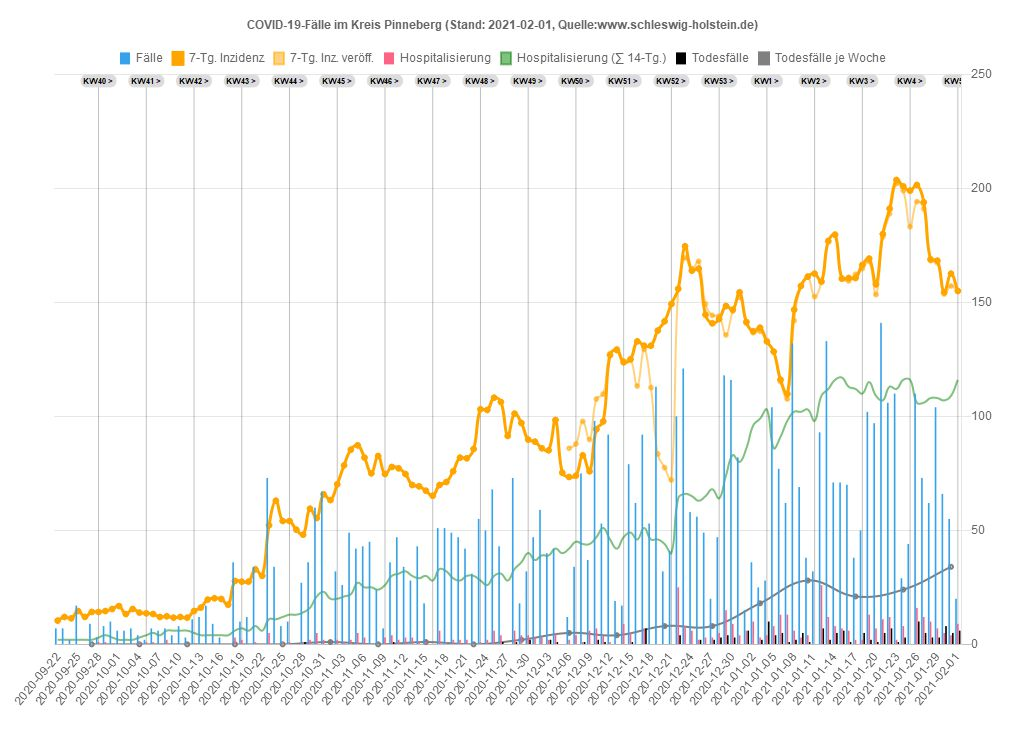
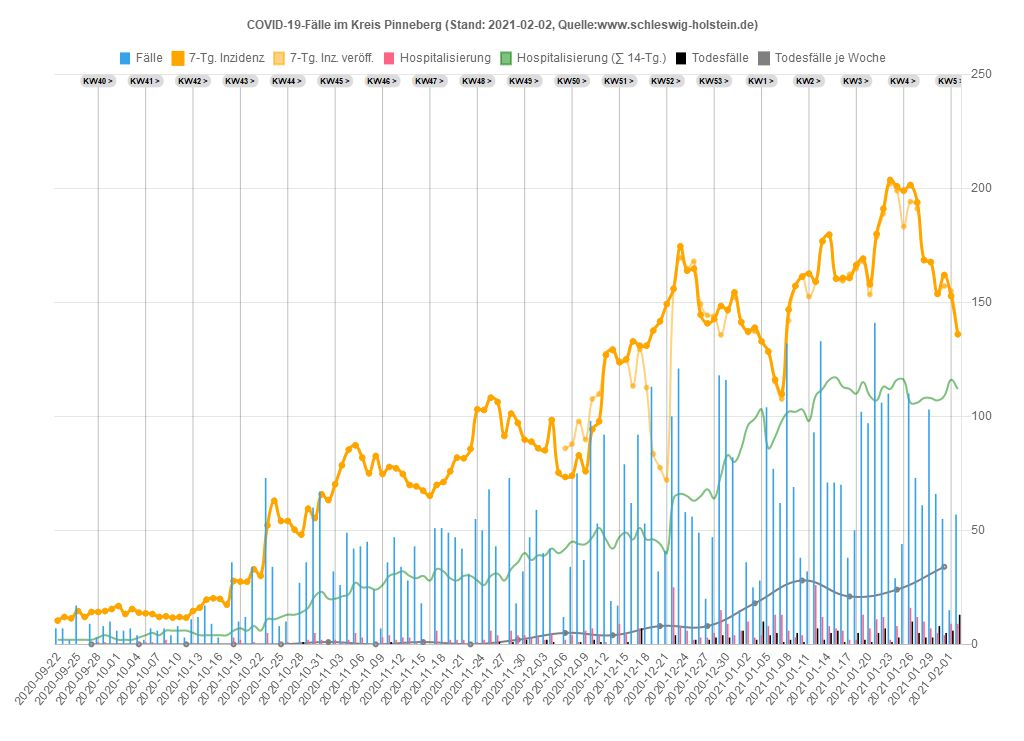
02.02.2021 21:17:01,52

Changed region(s): [[0.0625, 0.2173, 0.9375, 0.9622], [0.125, 0.0931, 0.9375, 0.1242]]

diff --git a/sh/Data_SH.js b/sh/Data_SH.js
@@ -1,20 +1,20 @@
 var chdata={
-labels: ["2020-09-22","2020-09-23","2020-09-24","2020-09-25","2020-09-26","2020-09-27","2020-09-28","2020-09-29","2020-09-30","2020-10-01","2020-10-02","2020-10-03","2020-10-04","2020-10-05","2020-10-06","2020-10-07","2020-10-08","2020-10-09","2020-10-10","2020-10-11","2020-10-12","2020-10-13","2020-10-14","2020-10-15","2020-10-16","2020-10-17","2020-10-18","2020-10-19","2020-10-20","2020-10-21","2020-10-22","2020-10-23","2020-10-24","2020-10-25","2020-10-26","2020-10-27","2020-10-28","2020-10-29","2020-10-30","2020-10-31","2020-11-01","2020-11-02","2020-11-03","2020-11-04","2020-11-05","2020-11-06","2020-11-07","2020-11-08","2020-11-09","2020-11-10","2020-11-11","2020-11-12","2020-11-13","2020-11-14","2020-11-15","2020-11-16","2020-11-17","2020-11-18","2020-11-19","2020-11-20","2020-11-21","2020-11-22","2020-11-23","2020-11-24","2020-11-25","2020-11-26","2020-11-27","2020-11-28","2020-11-29","2020-11-30","2020-12-01","2020-12-02","2020-12-03","2020-12-04","2020-12-05","2020-12-06","2020-12-07","2020-12-08","2020-12-09","2020-12-10","2020-12-11","2020-12-12","2020-12-13","2020-12-14","2020-12-15","2020-12-16","2020-12-17","2020-12-18","2020-12-19","2020-12-20","2020-12-21","2020-12-22","2020-12-23","2020-12-24","2020-12-25","2020-12-26","2020-12-27","2020-12-28","2020-12-29","2020-12-30","2020-12-31","2021-01-01","2021-01-02","2021-01-03","2021-01-04","2021-01-05","2021-01-06","2021-01-07","2021-01-08","2021-01-09","2021-01-10","2021-01-11","2021-01-12","2021-01-13","2021-01-14","2021-01-15","2021-01-16","2021-01-17","2021-01-18","2021-01-19","2021-01-20","2021-01-21","2021-01-22","2021-01-23","2021-01-24","2021-01-25","2021-01-26","2021-01-27","2021-01-28","2021-01-29","2021-01-30","2021-01-31","2021-02-01"],
+labels: ["2020-09-22","2020-09-23","2020-09-24","2020-09-25","2020-09-26","2020-09-27","2020-09-28","2020-09-29","2020-09-30","2020-10-01","2020-10-02","2020-10-03","2020-10-04","2020-10-05","2020-10-06","2020-10-07","2020-10-08","2020-10-09","2020-10-10","2020-10-11","2020-10-12","2020-10-13","2020-10-14","2020-10-15","2020-10-16","2020-10-17","2020-10-18","2020-10-19","2020-10-20","2020-10-21","2020-10-22","2020-10-23","2020-10-24","2020-10-25","2020-10-26","2020-10-27","2020-10-28","2020-10-29","2020-10-30","2020-10-31","2020-11-01","2020-11-02","2020-11-03","2020-11-04","2020-11-05","2020-11-06","2020-11-07","2020-11-08","2020-11-09","2020-11-10","2020-11-11","2020-11-12","2020-11-13","2020-11-14","2020-11-15","2020-11-16","2020-11-17","2020-11-18","2020-11-19","2020-11-20","2020-11-21","2020-11-22","2020-11-23","2020-11-24","2020-11-25","2020-11-26","2020-11-27","2020-11-28","2020-11-29","2020-11-30","2020-12-01","2020-12-02","2020-12-03","2020-12-04","2020-12-05","2020-12-06","2020-12-07","2020-12-08","2020-12-09","2020-12-10","2020-12-11","2020-12-12","2020-12-13","2020-12-14","2020-12-15","2020-12-16","2020-12-17","2020-12-18","2020-12-19","2020-12-20","2020-12-21","2020-12-22","2020-12-23","2020-12-24","2020-12-25","2020-12-26","2020-12-27","2020-12-28","2020-12-29","2020-12-30","2020-12-31","2021-01-01","2021-01-02","2021-01-03","2021-01-04","2021-01-05","2021-01-06","2021-01-07","2021-01-08","2021-01-09","2021-01-10","2021-01-11","2021-01-12","2021-01-13","2021-01-14","2021-01-15","2021-01-16","2021-01-17","2021-01-18","2021-01-19","2021-01-20","2021-01-21","2021-01-22","2021-01-23","2021-01-24","2021-01-25","2021-01-26","2021-01-27","2021-01-28","2021-01-29","2021-01-30","2021-01-31","2021-02-01","2021-02-02"],
 datasets: [
 {label: 'Fälle',
 type: 'bar',
 backgroundColor: window.chartColors.blue,
-data: [38,42,63,53,15,15,38,48,49,27,50,16,24,39,54,45,79,54,26,25,65,65,65,55,90,26,88,163,111,160,136,236,142,115,164,164,280,215,313,265,161,142,236,262,220,274,233,177,215,252,247,192,296,158,161,100,294,208,264,250,153,121,145,251,256,225,180,219,71,81,244,240,245,318,234,122,179,356,340,443,429,444,144,210,506,522,489,553,440,193,280,589,673,366,177,201,188,268,576,466,357,135,264,203,265,542,537,482,523,408,143,261,399,491,422,417,358,202,239,468,485,501,459,442,157,161,539,464,386,349,264,179,98]},
+data: [38,42,63,53,15,15,38,48,49,27,50,16,24,39,54,45,79,54,26,25,65,65,65,55,90,26,88,163,111,160,136,236,142,115,164,164,280,215,313,265,161,142,236,262,220,274,233,177,215,252,247,192,296,158,161,100,294,208,264,250,153,121,145,251,256,225,180,219,71,81,244,240,245,318,234,122,179,356,340,443,429,444,144,210,506,522,489,553,440,193,280,589,673,366,177,201,188,268,576,466,357,135,264,203,265,542,537,482,523,408,143,261,399,491,422,417,358,202,239,468,485,501,459,442,157,161,539,464,385,348,264,181,127,226]},
 {label: '7-Tg. Inzidenz',
 type: 'line',
 fill: false,
 pointBackgroundColor: 'orange',
 borderColor: 'orange',
-data: [7.2,7.9,8.7,9.4,9.3,9.2,9.1,9.4,9.7,8.4,8.3,8.4,8.7,8.7,8.9,8.8,10.6,10.7,11.1,11.1,12.0,12.4,13.1,12.2,13.5,13.5,15.6,19.0,20.6,23.9,26.7,31.7,35.7,36.6,36.6,38.5,42.6,45.3,48.0,52.2,53.8,53.0,55.5,54.9,55.1,53.7,52.6,53.2,55.7,56.2,55.7,54.8,55.5,52.9,52.4,48.4,49.9,48.5,51.0,49.4,49.2,47.9,49.4,47.9,49.6,48.2,45.8,48.1,46.4,44.2,43.9,43.4,44.1,48.8,49.3,51.1,54.5,58.3,61.8,68.6,72.4,79.7,80.4,81.5,86.6,92.9,94.5,98.8,98.6,100.3,102.7,105.6,110.8,106.6,93.6,85.4,85.2,84.8,84.3,77.2,76.9,75.5,77.6,78.1,78.0,76.9,79.3,83.6,97.0,101.9,99.9,99.7,94.8,93.2,91.2,87.5,85.8,87.8,87.1,89.4,89.2,91.9,93.4,96.3,94.7,92.1,94.5,93.8,89.8,86.0,79.9,80.7,78.5]},
+data: [7.2,7.9,8.7,9.4,9.3,9.2,9.1,9.4,9.7,8.4,8.3,8.4,8.7,8.7,8.9,8.8,10.6,10.7,11.1,11.1,12.0,12.4,13.1,12.2,13.5,13.5,15.6,19.0,20.6,23.9,26.7,31.7,35.7,36.6,36.6,38.5,42.6,45.3,48.0,52.2,53.8,53.0,55.5,54.9,55.1,53.7,52.6,53.2,55.7,56.2,55.7,54.8,55.5,52.9,52.4,48.4,49.9,48.5,51.0,49.4,49.2,47.9,49.4,47.9,49.6,48.2,45.8,48.1,46.4,44.2,43.9,43.4,44.1,48.8,49.3,51.1,54.5,58.3,61.8,68.6,72.4,79.7,80.4,81.5,86.6,92.9,94.5,98.8,98.6,100.3,102.7,105.6,110.8,106.6,93.6,85.4,85.2,84.8,84.3,77.2,76.9,75.5,77.6,78.1,78.0,76.9,79.3,83.6,97.0,101.9,99.9,99.7,94.8,93.2,91.2,87.5,85.8,87.8,87.1,89.4,89.2,91.9,93.4,96.3,94.7,92.1,94.5,93.8,89.8,86.0,79.8,80.7,79.5,68.7]},
 {label: 'Hospitalisierung',
 type: 'bar',
 backgroundColor: window.chartColors.red,
-data: [1,2,7,1,0,0,2,1,3,1,1,0,4,3,1,1,4,2,0,3,5,1,1,2,4,0,9,10,8,9,12,7,5,6,7,7,11,10,11,6,3,9,19,20,15,15,5,7,13,15,21,13,17,8,17,13,23,10,15,9,7,7,13,16,26,19,12,14,15,10,12,8,10,14,3,5,24,13,26,20,14,12,6,26,27,16,20,18,8,13,13,43,35,23,17,21,26,25,46,33,33,20,34,32,51,58,35,46,34,30,22,45,69,51,59,52,32,37,36,51,53,47,34,33,38,51,37,53,37,29,46,58,40]},
+data: [1,2,7,1,0,0,2,1,3,1,1,0,4,3,1,1,4,2,0,3,5,1,1,2,4,0,9,10,8,9,12,7,5,6,7,7,11,10,11,6,3,9,19,20,15,15,5,7,13,15,21,13,17,8,17,13,23,10,15,9,7,7,13,16,26,19,12,14,15,10,12,8,10,14,3,5,24,13,26,20,14,12,6,26,27,16,20,18,8,13,13,43,35,23,17,21,26,25,46,33,33,20,34,32,51,58,35,46,34,30,22,45,69,51,59,52,32,37,36,51,53,47,34,33,38,51,37,53,37,29,46,58,40,36]},
 {label: 'Hosp. (∑ 14-Tg.)',
 type: 'line',
 fill: false,
@@ -22,17 +22,17 @@ hidden: true,
 borderColor: 'rgba(0,255,0,0.5)',
 borderWidth: 1.5,
 pointRadius: 0,
-data: [12,12,20,22,22,22,22,23,23,21,22,21,24,26,26,25,22,23,23,26,29,29,27,28,31,31,36,43,50,58,66,71,76,79,81,87,97,105,112,118,112,111,122,133,136,144,144,145,151,159,169,172,178,180,194,198,202,192,192,186,188,188,188,189,194,200,195,201,199,196,185,183,178,183,179,177,188,185,185,186,188,186,177,193,208,216,226,230,235,243,232,262,271,274,277,286,306,305,324,341,354,356,382,401,439,454,454,477,494,503,499,519,542,560,586,618,616,621,606,599,617,618,618,621,637,643,611,613,591,568,582,603,607]},
+data: [12,12,20,22,22,22,22,23,23,21,22,21,24,26,26,25,22,23,23,26,29,29,27,28,31,31,36,43,50,58,66,71,76,79,81,87,97,105,112,118,112,111,122,133,136,144,144,145,151,159,169,172,178,180,194,198,202,192,192,186,188,188,188,189,194,200,195,201,199,196,185,183,178,183,179,177,188,185,185,186,188,186,177,193,208,216,226,230,235,243,232,262,271,274,277,286,306,305,324,341,354,356,382,401,439,454,454,477,494,503,499,519,542,560,586,618,616,621,606,599,617,618,618,621,637,643,611,613,591,568,582,603,607,592]},
 {label: 'Aktuell im Krankenhaus',
 type: 'line',
 fill: false,
 pointBackgroundColor: 'green',
 borderColor: 'green',
-data: [6,6,6,6,6,6,6,11,11,11,11,14,14,15,15,14,14,14,13,13,18,18,18,21,24,24,24,24,31,31,31,31,51,51,58,58,58,58,58,58,58,94,110,114,119,118,124,120,126,116,113,119,112,116,116,148,145,151,141,141,141,141,155,142,122,113,118,118,118,124,114,110,109,114,114,114,131,122,128,132,133,133,133,177,181,194,201,212,236,250,275,271,267,262,262,262,262,309,318,322,346,346,376,376,390,412,376,379,364,364,364,384,362,373,382,398,426,473,454,457,457,438,447,461,485,499,499,494,505,485,488,506,513]},
+data: [6,6,6,6,6,6,6,11,11,11,11,14,14,15,15,14,14,14,13,13,18,18,18,21,24,24,24,24,31,31,31,31,51,51,58,58,58,58,58,58,58,94,110,114,119,118,124,120,126,116,113,119,112,116,116,148,145,151,141,141,141,141,155,142,122,113,118,118,118,124,114,110,109,114,114,114,131,122,128,132,133,133,133,177,181,194,201,212,236,250,275,271,267,262,262,262,262,309,318,322,346,346,376,376,390,412,376,379,364,364,364,384,362,373,382,398,426,473,454,457,457,438,447,461,485,499,499,494,505,485,488,506,513,501]},
 {label: 'Todesfälle',
 type: 'bar',
 backgroundColor: 'black',
-data: [0,0,0,0,0,0,0,1,0,0,0,0,0,0,0,0,0,0,0,0,0,1,0,0,0,0,0,0,0,0,1,0,0,3,0,0,3,4,1,0,2,6,7,2,2,6,0,1,4,3,5,0,5,1,3,5,0,2,2,2,1,0,3,4,1,3,3,1,4,2,3,1,4,1,0,1,4,2,5,7,7,1,2,2,6,7,11,3,2,0,9,15,4,3,4,7,10,18,17,14,2,9,7,3,29,22,17,6,14,11,9,15,25,15,15,24,3,1,23,16,16,18,16,3,11,14,25,21,19,19,24,11,29]},
+data: [0,0,0,0,0,0,0,1,0,0,0,0,0,0,0,0,0,0,0,0,0,1,0,0,0,0,0,0,0,0,1,0,0,3,0,0,3,4,1,0,2,6,7,2,2,6,0,1,4,3,5,0,5,1,3,5,0,2,2,2,1,0,3,4,1,3,3,1,4,2,3,1,4,1,0,1,4,2,5,7,7,1,2,2,6,7,11,3,2,0,9,15,4,3,4,7,10,18,17,14,2,9,7,3,29,22,17,6,14,11,9,15,25,15,15,24,3,1,23,16,16,18,16,3,11,14,25,21,19,19,24,11,29,27]},
 {label: 'Todesfälle je Woche',
 type: 'line',
 fill: false,
@@ -41,6 +41,6 @@ borderColor: 'rgba(128,128,128,1)',
 borderWidth: 2,
 pointRadius: 2,
 yAxisID: 'first-y-axis',
-data: [,,,,,0,,,,,,,1,,,,,,,0,,,,,,,1,,,,,,,4,,,,,,,10,,,,,,,24,,,,,,,21,,,,,,,12,,,,,,,19,,,,,,,12,,,,,,,28,,,,,,,31,,,,,,,52,,,,,,,70,,,,,,,108,,,,,,,98,,,,,,,103,,,,,,,133,]},
+data: [,,,,,0,,,,,,,1,,,,,,,0,,,,,,,1,,,,,,,4,,,,,,,10,,,,,,,24,,,,,,,21,,,,,,,12,,,,,,,19,,,,,,,12,,,,,,,28,,,,,,,31,,,,,,,52,,,,,,,70,,,,,,,108,,,,,,,98,,,,,,,103,,,,,,,133,,]},
 ]};
 

diff --git a/sh/Kreis_PI.js b/sh/Kreis_PI.js
@@ -1,18 +1,18 @@
 var chdata={
-labels: ["2020-09-22","2020-09-23","2020-09-24","2020-09-25","2020-09-26","2020-09-27","2020-09-28","2020-09-29","2020-09-30","2020-10-01","2020-10-02","2020-10-03","2020-10-04","2020-10-05","2020-10-06","2020-10-07","2020-10-08","2020-10-09","2020-10-10","2020-10-11","2020-10-12","2020-10-13","2020-10-14","2020-10-15","2020-10-16","2020-10-17","2020-10-18","2020-10-19","2020-10-20","2020-10-21","2020-10-22","2020-10-23","2020-10-24","2020-10-25","2020-10-26","2020-10-27","2020-10-28","2020-10-29","2020-10-30","2020-10-31","2020-11-01","2020-11-02","2020-11-03","2020-11-04","2020-11-05","2020-11-06","2020-11-07","2020-11-08","2020-11-09","2020-11-10","2020-11-11","2020-11-12","2020-11-13","2020-11-14","2020-11-15","2020-11-16","2020-11-17","2020-11-18","2020-11-19","2020-11-20","2020-11-21","2020-11-22","2020-11-23","2020-11-24","2020-11-25","2020-11-26","2020-11-27","2020-11-28","2020-11-29","2020-11-30","2020-12-01","2020-12-02","2020-12-03","2020-12-04","2020-12-05","2020-12-06","2020-12-07","2020-12-08","2020-12-09","2020-12-10","2020-12-11","2020-12-12","2020-12-13","2020-12-14","2020-12-15","2020-12-16","2020-12-17","2020-12-18","2020-12-19","2020-12-20","2020-12-21","2020-12-22","2020-12-23","2020-12-24","2020-12-25","2020-12-26","2020-12-27","2020-12-28","2020-12-29","2020-12-30","2020-12-31","2021-01-01","2021-01-02","2021-01-03","2021-01-04","2021-01-05","2021-01-06","2021-01-07","2021-01-08","2021-01-09","2021-01-10","2021-01-11","2021-01-12","2021-01-13","2021-01-14","2021-01-15","2021-01-16","2021-01-17","2021-01-18","2021-01-19","2021-01-20","2021-01-21","2021-01-22","2021-01-23","2021-01-24","2021-01-25","2021-01-26","2021-01-27","2021-01-28","2021-01-29","2021-01-30","2021-01-31","2021-02-01"],
+labels: ["2020-09-22","2020-09-23","2020-09-24","2020-09-25","2020-09-26","2020-09-27","2020-09-28","2020-09-29","2020-09-30","2020-10-01","2020-10-02","2020-10-03","2020-10-04","2020-10-05","2020-10-06","2020-10-07","2020-10-08","2020-10-09","2020-10-10","2020-10-11","2020-10-12","2020-10-13","2020-10-14","2020-10-15","2020-10-16","2020-10-17","2020-10-18","2020-10-19","2020-10-20","2020-10-21","2020-10-22","2020-10-23","2020-10-24","2020-10-25","2020-10-26","2020-10-27","2020-10-28","2020-10-29","2020-10-30","2020-10-31","2020-11-01","2020-11-02","2020-11-03","2020-11-04","2020-11-05","2020-11-06","2020-11-07","2020-11-08","2020-11-09","2020-11-10","2020-11-11","2020-11-12","2020-11-13","2020-11-14","2020-11-15","2020-11-16","2020-11-17","2020-11-18","2020-11-19","2020-11-20","2020-11-21","2020-11-22","2020-11-23","2020-11-24","2020-11-25","2020-11-26","2020-11-27","2020-11-28","2020-11-29","2020-11-30","2020-12-01","2020-12-02","2020-12-03","2020-12-04","2020-12-05","2020-12-06","2020-12-07","2020-12-08","2020-12-09","2020-12-10","2020-12-11","2020-12-12","2020-12-13","2020-12-14","2020-12-15","2020-12-16","2020-12-17","2020-12-18","2020-12-19","2020-12-20","2020-12-21","2020-12-22","2020-12-23","2020-12-24","2020-12-25","2020-12-26","2020-12-27","2020-12-28","2020-12-29","2020-12-30","2020-12-31","2021-01-01","2021-01-02","2021-01-03","2021-01-04","2021-01-05","2021-01-06","2021-01-07","2021-01-08","2021-01-09","2021-01-10","2021-01-11","2021-01-12","2021-01-13","2021-01-14","2021-01-15","2021-01-16","2021-01-17","2021-01-18","2021-01-19","2021-01-20","2021-01-21","2021-01-22","2021-01-23","2021-01-24","2021-01-25","2021-01-26","2021-01-27","2021-01-28","2021-01-29","2021-01-30","2021-01-31","2021-02-01","2021-02-02"],
 datasets: [
 {label: 'Fälle',
 type: 'bar',
 backgroundColor: window.chartColors.blue,
 yAxisID: 'first-y-axis',
-data: [7,7,2,17,0,9,3,8,10,6,6,7,4,2,7,6,7,4,8,3,11,12,17,9,3,0,36,10,12,34,0,73,34,8,10,0,27,36,60,67,0,32,26,49,42,43,45,24,7,36,47,34,28,43,18,0,51,51,49,47,42,31,55,50,68,43,0,73,18,32,47,59,40,42,0,12,34,75,37,98,53,92,19,17,79,62,92,53,113,32,41,100,121,58,56,49,20,47,118,116,82,15,36,25,28,104,77,62,132,69,38,32,93,133,71,71,70,38,50,102,97,141,106,110,29,44,110,73,62,104,66,55,20]},
+data: [7,7,2,17,0,9,3,8,10,6,6,7,4,2,7,6,7,4,8,3,11,12,17,9,3,0,36,10,12,34,0,73,34,8,10,0,27,36,60,67,0,32,26,49,42,43,45,24,7,36,47,34,28,43,18,0,51,51,49,47,42,31,55,50,68,43,0,73,18,32,47,59,40,42,0,12,34,75,37,98,53,92,19,17,79,62,92,53,113,32,41,100,121,58,56,49,20,47,118,116,82,15,36,25,28,104,77,62,132,69,38,32,93,133,71,71,70,38,50,102,97,141,106,110,29,44,110,73,61,103,66,55,15,57]},
 {label: '7-Tg. Inzidenz',
 type: 'line',
 fill: false,
 pointBackgroundColor: 'orange',
 borderColor: 'orange',
 yAxisID: 'first-y-axis',
-data: [10.4,12.0,11.4,14.6,12.0213981,14.2,14.2,14.6,15.5,16.8,13.3,15.5,13.9,13.6,13.3,12.0,12.3,11.7,12.0,11.7,14.6,16.1,19.6,20.2,19.9,17.399392,27.8,27.5,27.5,32.9,30.0534952,52.2,63.0,54.1,54.1,50.3000604,48.1,59.5,55.4,65.8,63.2705163,70.2,78.5,85.4,87.3,81.9,75.0,82.6,74.7,77.8,77.2,74.7,69.9,69.3,67.4,65.1686317,69.9,71.2,75.9,81.9,81.6,85.7,103.1,102.8,108.2,106.3,91.425896,101.2,97.1,89.8,88.9,86.0,85.1,98.4,75.2919143,73.4,74.0,82.9,75.9,94.3,97.8,126.9,129.1,123.7,125.0,132.9,131.0,131.0,137.6,141.7,149.3,156.0,174.6,163.9,164.8,144.6,140.8,142.7,148.4,146.8,154.4,141.4,137.3,138.9,132.9,128.4,116.1,109.8,146.8,157.2,161.3,162.6,159.1,176.8,179.7,160.4,160.7,160.7,166.4,169.2,157.9,180.0,191.1,203.7,200.9,199.0,201.5,193.9,168.9,168.3,154.4,162.6,155.0]},
+data: [10.4,12.0,11.4,14.6,12.0213981,14.2,14.2,14.6,15.5,16.8,13.3,15.5,13.9,13.6,13.3,12.0,12.3,11.7,12.0,11.7,14.6,16.1,19.6,20.2,19.9,17.399392,27.8,27.5,27.5,32.9,30.0534952,52.2,63.0,54.1,54.1,50.3000604,48.1,59.5,55.4,65.8,63.2705163,70.2,78.5,85.4,87.3,81.9,75.0,82.6,74.7,77.8,77.2,74.7,69.9,69.3,67.4,65.1686317,69.9,71.2,75.9,81.9,81.6,85.7,103.1,102.8,108.2,106.3,91.425896,101.2,97.1,89.8,88.9,86.0,85.1,98.4,75.2919143,73.4,74.0,82.9,75.9,94.3,97.8,126.9,129.1,123.7,125.0,132.9,131.0,131.0,137.6,141.7,149.3,156.0,174.6,163.9,164.8,144.6,140.8,142.7,148.4,146.8,154.4,141.4,137.3,138.9,132.9,128.4,116.1,109.8,146.8,157.2,161.3,162.6,159.1,176.8,179.7,160.4,160.7,160.7,166.4,169.2,157.9,180.0,191.1,203.7,200.9,199.0,201.5,193.9,168.6,167.7,153.7,162.0,152.8,136.0]},
 {label: '7-Tg. Inz. veröff.',
 type: 'line',
 fill: false,
@@ -21,12 +21,12 @@ borderColor: 'rgba(255,165,0,0.5)',
 borderWidth: 2,
 pointRadius: 2,
 yAxisID: 'first-y-axis',
-data: [,,,,,,,,,,,,,,,,,,,,,,,,,,,,,,,,,,,,,,,,,,,,,,,,,,,,,,,,,,,,,,,,,,,,,,,,,,,86.0,87.9,97.8,89.8,107.6,109.8,127.5,129.7,124.3,125.0,113.3,129.4,112.6,83.5,77.5,72.1,155.6,169.6,164.8,168.0,149.3,144.3,143.9,135.7,146.2,152.2,140.8,136.7,137.3,132.9,128.4,115.2,107.6,142.0,157.2,161.3,152.5,159.1,177.2,179.4,160.7,159.4,162.3,164.8,168.0,153.4,178.7,188.9,202.1,199.0,183.2,194.2,191.1,168.3,167.4,153.7,157.2,155.0]},
+data: [,,,,,,,,,,,,,,,,,,,,,,,,,,,,,,,,,,,,,,,,,,,,,,,,,,,,,,,,,,,,,,,,,,,,,,,,,,,86.0,87.9,97.8,89.8,107.6,109.8,127.5,129.7,124.3,125.0,113.3,129.4,112.6,83.5,77.5,72.1,155.6,169.6,164.8,168.0,149.3,144.3,143.9,135.7,146.2,152.2,140.8,136.7,137.3,132.9,128.4,115.2,107.6,142.0,157.2,161.3,152.5,159.1,177.2,179.4,160.7,159.4,162.3,164.8,168.0,153.4,178.7,188.9,202.1,199.0,183.2,194.2,191.1,168.3,167.4,153.7,157.2,155.0,136.0]},
 {label: 'Hospitalisierung',
 type: 'bar',
 backgroundColor: window.chartColors.red,
 yAxisID: 'first-y-axis',
-data: [0,0,0,0,0,0,1,1,0,0,0,0,1,1,1,-1,2,0,0,0,0,0,0,0,0,0,3,2,0,1,0,5,0,1,1,0,1,2,5,2,0,2,1,2,5,3,0,0,3,4,2,3,3,1,1,0,6,1,2,2,2,0,1,2,6,4,0,6,4,4,3,3,2,5,0,2,4,1,6,7,4,1,0,9,5,0,7,0,0,0,0,25,8,6,2,3,3,5,15,9,4,6,10,3,4,8,13,13,6,3,4,0,26,12,8,7,6,2,2,13,7,11,12,2,8,0,16,12,10,7,5,4,9]},
+data: [0,0,0,0,0,0,1,1,0,0,0,0,1,1,1,-1,2,0,0,0,0,0,0,0,0,0,3,2,0,1,0,5,0,1,1,0,1,2,5,2,0,2,1,2,5,3,0,0,3,4,2,3,3,1,1,0,6,1,2,2,2,0,1,2,6,4,0,6,4,4,3,3,2,5,0,2,4,1,6,7,4,1,0,9,5,0,7,0,0,0,0,25,8,6,2,3,3,5,15,9,4,6,10,3,4,8,13,13,6,3,4,0,26,12,8,7,6,2,2,13,7,11,12,2,8,0,16,12,10,7,5,4,9,9]},
 {label: 'Hospitalisierung (∑ 14-Tg.)',
 type: 'line',
 pointRadius: 0,
@@ -34,12 +34,12 @@ fill: false,
 borderColor: 'rgba(0,128,0,0.5)',
 borderWidth: 2,
 yAxisID: 'first-y-axis',
-data: [2,2,2,2,2,2,3,4,3,2,2,2,3,4,5,4,6,6,6,6,5,4,4,4,4,4,6,7,6,8,6,11,11,12,13,13,14,16,21,23,20,20,21,22,27,25,25,24,26,30,31,32,30,29,30,28,33,32,29,28,30,30,28,26,30,31,28,33,36,40,37,39,39,42,40,42,45,44,44,47,51,46,42,47,49,46,51,46,46,44,40,64,66,65,63,65,68,64,74,83,80,86,96,99,103,86,91,98,102,102,103,98,109,112,116,117,113,112,110,115,109,107,113,112,116,116,106,106,108,108,107,109,116]},
+data: [2,2,2,2,2,2,3,4,3,2,2,2,3,4,5,4,6,6,6,6,5,4,4,4,4,4,6,7,6,8,6,11,11,12,13,13,14,16,21,23,20,20,21,22,27,25,25,24,26,30,31,32,30,29,30,28,33,32,29,28,30,30,28,26,30,31,28,33,36,40,37,39,39,42,40,42,45,44,44,47,51,46,42,47,49,46,51,46,46,44,40,64,66,65,63,65,68,64,74,83,80,86,96,99,103,86,91,98,102,102,103,98,109,112,116,117,113,112,110,115,109,107,113,112,116,116,106,106,108,108,107,109,116,112]},
 {label: 'Todesfälle',
 type: 'bar',
 backgroundColor: 'black',
 yAxisID: 'first-y-axis',
-data: [0,0,0,0,0,0,0,0,0,0,0,0,0,0,0,0,0,0,0,0,0,0,0,0,0,0,0,0,0,0,0,0,0,0,0,0,1,0,0,0,0,0,0,0,0,0,0,0,0,1,0,0,0,0,0,0,0,0,0,0,0,0,0,0,0,1,0,1,0,2,0,0,2,1,0,0,0,1,0,2,1,0,0,0,1,0,7,0,0,0,0,4,0,0,2,0,2,3,4,3,0,6,0,2,10,4,5,1,2,5,1,0,7,2,5,6,1,0,5,2,1,5,7,1,3,0,10,5,3,3,8,5,6]},
+data: [0,0,0,0,0,0,0,0,0,0,0,0,0,0,0,0,0,0,0,0,0,0,0,0,0,0,0,0,0,0,0,0,0,0,0,0,1,0,0,0,0,0,0,0,0,0,0,0,0,1,0,0,0,0,0,0,0,0,0,0,0,0,0,0,0,1,0,1,0,2,0,0,2,1,0,0,0,1,0,2,1,0,0,0,1,0,7,0,0,0,0,4,0,0,2,0,2,3,4,3,0,6,0,2,10,4,5,1,2,5,1,0,7,2,5,6,1,0,5,2,1,5,7,1,3,0,10,5,3,3,8,5,6,13]},
 {label: 'Todesfälle je Woche',
 type: 'line',
 fill: false,
@@ -48,6 +48,6 @@ borderColor: 'rgba(128,128,128,1)',
 borderWidth: 2,
 pointRadius: 2,
 yAxisID: 'first-y-axis',
-data: [,,,,,0,,,,,,,0,,,,,,,0,,,,,,,0,,,,,,,0,,,,,,,1,,,,,,,0,,,,,,,1,,,,,,,0,,,,,,,2,,,,,,,5,,,,,,,4,,,,,,,8,,,,,,,8,,,,,,,18,,,,,,,28,,,,,,,21,,,,,,,24,,,,,,,34,]},
+data: [,,,,,0,,,,,,,0,,,,,,,0,,,,,,,0,,,,,,,0,,,,,,,1,,,,,,,0,,,,,,,1,,,,,,,0,,,,,,,2,,,,,,,5,,,,,,,4,,,,,,,8,,,,,,,8,,,,,,,18,,,,,,,28,,,,,,,21,,,,,,,24,,,,,,,34,,]},
 ]};
 

diff --git a/sh/Data_SH_Alter.js b/sh/Data_SH_Alter.js
@@ -143,7 +143,8 @@ var chdata={
 				{x: '2021-01-29', y: 'Alle', v: 84.1319208, casesum: 2443},{x: '2021-01-29', y: '00-09', v: 45.9641168, casesum: 118},{x: '2021-01-29', y: '10-19', v: 71.0126917, casesum: 196},{x: '2021-01-29', y: '20-29', v: 100.636951, casesum: 322},{x: '2021-01-29', y: '30-39', v: 89.8571509, casesum: 302},{x: '2021-01-29', y: '40-49', v: 89.9359667, casesum: 317},{x: '2021-01-29', y: '50-59', v: 77.5129642, casesum: 384},{x: '2021-01-29', y: '60-69', v: 53.9157704, casesum: 196},{x: '2021-01-29', y: '70-79', v: 63.8662391, casesum: 189},{x: '2021-01-29', y: '80-89', v: 169.982443, casesum: 304},{x: '2021-01-29', y: '90+', v: 399.083842, casesum: 115},
 				{x: '2021-01-30', y: 'Alle', v: 78.4496584, casesum: 2278},{x: '2021-01-30', y: '00-09', v: 42.8479055, casesum: 110},{x: '2021-01-30', y: '10-19', v: 63.0418794, casesum: 174},{x: '2021-01-30', y: '20-29', v: 100.324414, casesum: 321},{x: '2021-01-30', y: '30-39', v: 80.9309439, casesum: 272},{x: '2021-01-30', y: '40-49', v: 82.5595152, casesum: 291},{x: '2021-01-30', y: '50-59', v: 70.8516939, casesum: 351},{x: '2021-01-30', y: '60-69', v: 51.7151267, casesum: 188},{x: '2021-01-30', y: '70-79', v: 62.176656, casesum: 184},{x: '2021-01-30', y: '80-89', v: 155.444471, casesum: 278},{x: '2021-01-30', y: '90+', v: 378.262077, casesum: 109},
 				{x: '2021-01-31', y: 'Alle', v: 80.5848116, casesum: 2340},{x: '2021-01-31', y: '00-09', v: 45.9641168, casesum: 118},{x: '2021-01-31', y: '10-19', v: 67.0272855, casesum: 185},{x: '2021-01-31', y: '20-29', v: 98.4491908, casesum: 315},{x: '2021-01-31', y: '30-39', v: 81.8235646, casesum: 275},{x: '2021-01-31', y: '40-49', v: 85.3966119, casesum: 301},{x: '2021-01-31', y: '50-59', v: 73.273974, casesum: 363},{x: '2021-01-31', y: '60-69', v: 52.5403681, casesum: 191},{x: '2021-01-31', y: '70-79', v: 62.8524893, casesum: 186},{x: '2021-01-31', y: '80-89', v: 162.713457, casesum: 291},{x: '2021-01-31', y: '90+', v: 399.083842, casesum: 115},
-				{x: '2021-02-01', y: 'Alle', v: 80.3781838, casesum: 2334},{x: '2021-02-01', y: '00-09', v: 47.5222225, casesum: 122},{x: '2021-02-01', y: '10-19', v: 67.7519048, casesum: 187},{x: '2021-02-01', y: '20-29', v: 97.8241166, casesum: 313},{x: '2021-02-01', y: '30-39', v: 83.0137255, casesum: 279},{x: '2021-02-01', y: '40-49', v: 84.5454829, casesum: 298},{x: '2021-02-01', y: '50-59', v: 71.4572639, casesum: 354},{x: '2021-02-01', y: '60-69', v: 54.1908508, casesum: 197},{x: '2021-02-01', y: '70-79', v: 61.1629062, casesum: 181},{x: '2021-02-01', y: '80-89', v: 161.595151, casesum: 289},{x: '2021-02-01', y: '90+', v: 395.613548, casesum: 114}
+				{x: '2021-02-01', y: 'Alle', v: 80.3781838, casesum: 2334},{x: '2021-02-01', y: '00-09', v: 47.5222225, casesum: 122},{x: '2021-02-01', y: '10-19', v: 67.7519048, casesum: 187},{x: '2021-02-01', y: '20-29', v: 97.8241166, casesum: 313},{x: '2021-02-01', y: '30-39', v: 83.0137255, casesum: 279},{x: '2021-02-01', y: '40-49', v: 84.5454829, casesum: 298},{x: '2021-02-01', y: '50-59', v: 71.4572639, casesum: 354},{x: '2021-02-01', y: '60-69', v: 54.1908508, casesum: 197},{x: '2021-02-01', y: '70-79', v: 61.1629062, casesum: 181},{x: '2021-02-01', y: '80-89', v: 161.595151, casesum: 289},{x: '2021-02-01', y: '90+', v: 395.613548, casesum: 114},
+				{x: '2021-02-02', y: 'Alle', v: 70.8388707, casesum: 2057},{x: '2021-02-02', y: '00-09', v: 39.7316942, casesum: 102},{x: '2021-02-02', y: '10-19', v: 56.8826153, casesum: 157},{x: '2021-02-02', y: '20-29', v: 88.7605403, casesum: 284},{x: '2021-02-02', y: '30-39', v: 76.7653806, casesum: 258},{x: '2021-02-02', y: '40-49', v: 72.6296766, casesum: 256},{x: '2021-02-02', y: '50-59', v: 61.7681434, casesum: 306},{x: '2021-02-02', y: '60-69', v: 48.9643221, casesum: 178},{x: '2021-02-02', y: '70-79', v: 52.0391578, casesum: 154},{x: '2021-02-02', y: '80-89', v: 144.261415, casesum: 258},{x: '2021-02-02', y: '90+', v: 360.910605, casesum: 104}
 			],
 			backgroundColor: function(context) {
 				return inzColor(context.dataset.data[context.dataIndex].v)
@@ -151,7 +152,7 @@ var chdata={
 			width: function(context) {
 				const a = context.chart.chartArea
 				if (!a) return 0
-				return (a.right - a.left) / 140.5
+				return (a.right - a.left) / 141.5
 			},
 			height: function(context) {
 				const a = context.chart.chartArea
@@ -163,7 +164,7 @@ var chdata={
 	options: {
 		legend: { display: false },
 		scales: {
-			xAxes: [{type: 'category', labels: ["2020-09-15","2020-09-16","2020-09-17","2020-09-18","2020-09-19","2020-09-20","2020-09-21","2020-09-22","2020-09-23","2020-09-24","2020-09-25","2020-09-26","2020-09-27","2020-09-28","2020-09-29","2020-09-30","2020-10-01","2020-10-02","2020-10-03","2020-10-04","2020-10-05","2020-10-06","2020-10-07","2020-10-08","2020-10-09","2020-10-10","2020-10-11","2020-10-12","2020-10-13","2020-10-14","2020-10-15","2020-10-16","2020-10-17","2020-10-18","2020-10-19","2020-10-20","2020-10-21","2020-10-22","2020-10-23","2020-10-24","2020-10-25","2020-10-26","2020-10-27","2020-10-28","2020-10-29","2020-10-30","2020-10-31","2020-11-01","2020-11-02","2020-11-03","2020-11-04","2020-11-05","2020-11-06","2020-11-07","2020-11-08","2020-11-09","2020-11-10","2020-11-11","2020-11-12","2020-11-13","2020-11-14","2020-11-15","2020-11-16","2020-11-17","2020-11-18","2020-11-19","2020-11-20","2020-11-21","2020-11-22","2020-11-23","2020-11-24","2020-11-25","2020-11-26","2020-11-27","2020-11-28","2020-11-29","2020-11-30","2020-12-01","2020-12-02","2020-12-03","2020-12-04","2020-12-05","2020-12-06","2020-12-07","2020-12-08","2020-12-09","2020-12-10","2020-12-11","2020-12-12","2020-12-13","2020-12-14","2020-12-15","2020-12-16","2020-12-17","2020-12-18","2020-12-19","2020-12-20","2020-12-21","2020-12-22","2020-12-23","2020-12-24","2020-12-25","2020-12-26","2020-12-27","2020-12-28","2020-12-29","2020-12-30","2020-12-31","2021-01-01","2021-01-02","2021-01-03","2021-01-04","2021-01-05","2021-01-06","2021-01-07","2021-01-08","2021-01-09","2021-01-10","2021-01-11","2021-01-12","2021-01-13","2021-01-14","2021-01-15","2021-01-16","2021-01-17","2021-01-18","2021-01-19","2021-01-20","2021-01-21","2021-01-22","2021-01-23","2021-01-24","2021-01-25","2021-01-26","2021-01-27","2021-01-28","2021-01-29","2021-01-30","2021-01-31","2021-02-01",], ticks: {display: true},gridlines:{display:false}}],
+			xAxes: [{type: 'category', labels: ["2020-09-15","2020-09-16","2020-09-17","2020-09-18","2020-09-19","2020-09-20","2020-09-21","2020-09-22","2020-09-23","2020-09-24","2020-09-25","2020-09-26","2020-09-27","2020-09-28","2020-09-29","2020-09-30","2020-10-01","2020-10-02","2020-10-03","2020-10-04","2020-10-05","2020-10-06","2020-10-07","2020-10-08","2020-10-09","2020-10-10","2020-10-11","2020-10-12","2020-10-13","2020-10-14","2020-10-15","2020-10-16","2020-10-17","2020-10-18","2020-10-19","2020-10-20","2020-10-21","2020-10-22","2020-10-23","2020-10-24","2020-10-25","2020-10-26","2020-10-27","2020-10-28","2020-10-29","2020-10-30","2020-10-31","2020-11-01","2020-11-02","2020-11-03","2020-11-04","2020-11-05","2020-11-06","2020-11-07","2020-11-08","2020-11-09","2020-11-10","2020-11-11","2020-11-12","2020-11-13","2020-11-14","2020-11-15","2020-11-16","2020-11-17","2020-11-18","2020-11-19","2020-11-20","2020-11-21","2020-11-22","2020-11-23","2020-11-24","2020-11-25","2020-11-26","2020-11-27","2020-11-28","2020-11-29","2020-11-30","2020-12-01","2020-12-02","2020-12-03","2020-12-04","2020-12-05","2020-12-06","2020-12-07","2020-12-08","2020-12-09","2020-12-10","2020-12-11","2020-12-12","2020-12-13","2020-12-14","2020-12-15","2020-12-16","2020-12-17","2020-12-18","2020-12-19","2020-12-20","2020-12-21","2020-12-22","2020-12-23","2020-12-24","2020-12-25","2020-12-26","2020-12-27","2020-12-28","2020-12-29","2020-12-30","2020-12-31","2021-01-01","2021-01-02","2021-01-03","2021-01-04","2021-01-05","2021-01-06","2021-01-07","2021-01-08","2021-01-09","2021-01-10","2021-01-11","2021-01-12","2021-01-13","2021-01-14","2021-01-15","2021-01-16","2021-01-17","2021-01-18","2021-01-19","2021-01-20","2021-01-21","2021-01-22","2021-01-23","2021-01-24","2021-01-25","2021-01-26","2021-01-27","2021-01-28","2021-01-29","2021-01-30","2021-01-31","2021-02-01","2021-02-02",], ticks: {display: true},gridlines:{display:false}}],
 			yAxes: [{type: 'category', labels: ["Alle","00-09","10-19","20-29","30-39","40-49","50-59","60-69","70-79","80-89","90+"], offset:true, ticks: {display: true},gridlines:{display:false}}],
 		},
 	}

diff --git a/sh/index_sh_alter.html b/sh/index_sh_alter.html
@@ -5,7 +5,7 @@
 <meta property="og:image" content="index_sh_alter.jpg" />
 <meta property="og:type" content="website" />
 <meta property="og:locale" content="de_DE" />
-<meta property="og:updated_time" content="2021-02-02T20:52:14+01:00" />
+<meta property="og:updated_time" content="2021-02-02T21:17:01+01:00" />
 <title>Altersverteilung der COVID-19-Fälle in Schleswig-Holstein</title>
 <link rel="stylesheet" href="../css/style.css" media="screen" type="text/css">
 <link rel="stylesheet" media="screen" href="Chart.min.css"> 

diff --git a/sh/index_pi_alter.html b/sh/index_pi_alter.html
@@ -5,7 +5,7 @@
 <meta property="og:image" content="index_pi_alter.jpg" />
 <meta property="og:type" content="website" />
 <meta property="og:locale" content="de_DE" />
-<meta property="og:updated_time" content="2021-02-02T20:52:14+01:00" />
+<meta property="og:updated_time" content="2021-02-02T21:17:01+01:00" />
 <title>Altersverteilung der COVID-19-Fälle im Kreis Pinneberg</title>
 <link rel="stylesheet" href="../css/style.css" media="screen" type="text/css">
 <link rel="stylesheet" media="screen" href="Chart.min.css"> 

diff --git a/sh/index.html b/sh/index.html
@@ -5,7 +5,7 @@
 <meta property="og:image" content="index.jpg" />
 <meta property="og:type" content="website" />
 <meta property="og:locale" content="de_DE" />
-<meta property="og:updated_time" content="2021-02-02T20:52:14+01:00" />
+<meta property="og:updated_time" content="2021-02-02T21:17:01+01:00" />
 <title>COVID-19-Fälle im Kreis Pinneberg</title>
 <link rel="stylesheet" href="../css/style.css" media="screen" type="text/css">
 <link rel="stylesheet" media="screen" href="Chart.min.css"> 
